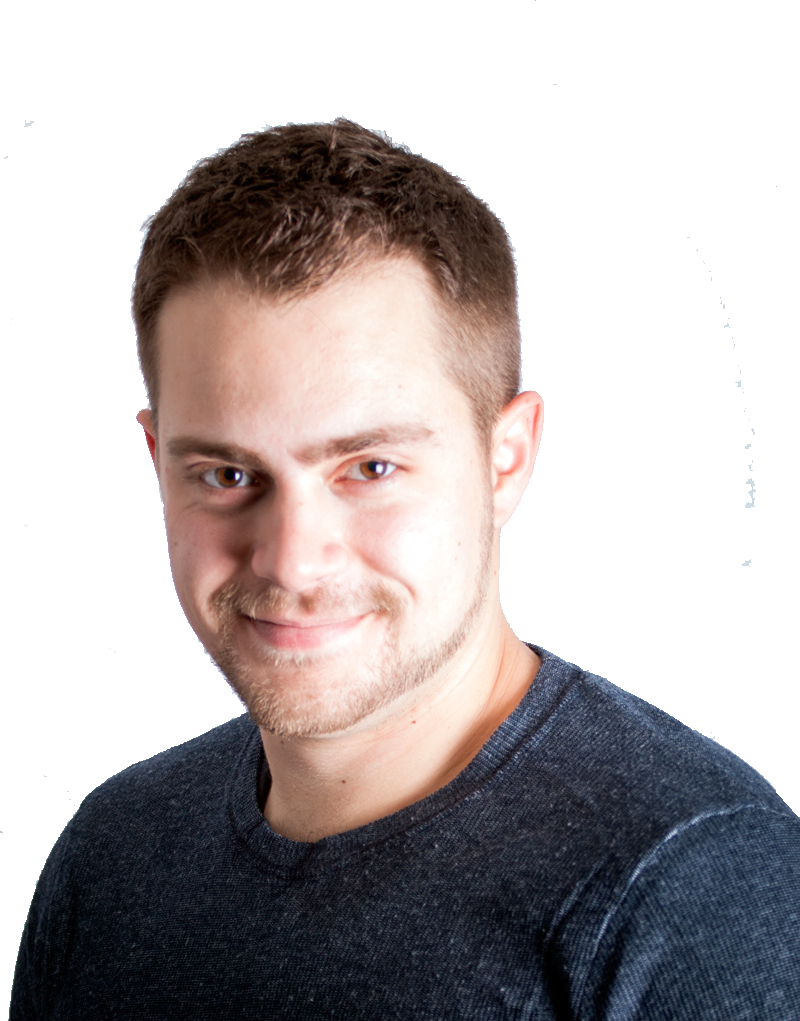
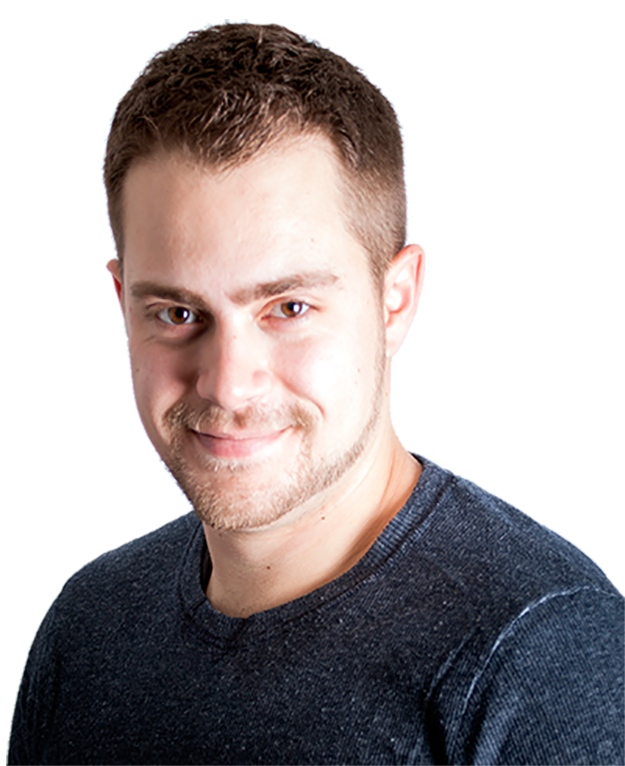
Update
-- Updated footer in index.html
-- added content to home.html

Changed region(s): [[0.0, 0.03, 1.0, 1.0], [0.3344, 0.9308, 0.3648, 0.9608], [0.2432, 0.8107, 0.2736, 0.8407]]

diff --git a/pages/home.html b/pages/home.html
@@ -1,8 +1,14 @@
 <div class="container">
 	<div class="row">
-		<div class="col-md-12">
-			<h1 class="jumbortron">Hi, My Name Is Chris...</h1>
-			<p>I am a Front End Web Developer living in Monroe, MI.  Since The age of 12, I have been creating something.  Short Films [<a href="">Some of which can be found here</a>], </p>
+		<!-- <div class="col-md-12">
+			<h1 class="helloHeader">Hi, My Name Is Chris</h1>			
+		</div> -->
+		<div class="col-lg-6 col-sm-12">
+			<h1 class="helloHeader">Hi, My Name Is Chris.</h1>
+			<p class="bio pull-left text-left">I am a Front End Web Developer based in Monroe, MI.  My passion for web development started when I was 14, building a fan pages for my favorite bands on Angelfire. This passion was revived while building my photography website, along with the website for a local restaurant. It's so exciting to come back to web development years later and see how much everything has evolved. <br><br>Since graduating Udacity’s Front End Web Developer Nanodegree program, I have focused primarily on AngularJS and refining my skills in vanilla JavaScript.</p>
+		</div>
+		<div class="col-lg-6 col-sm-12">
+			<img src="../assets/img/headshot.png" class="pull-right img-responsive img-rounded headshot" alt="">
 		</div>
 	</div> <!-- Row End -->
 	<hr>
@@ -10,36 +16,33 @@
 	<!-- Skills Section -->
 	<div class="row">
 		<div class="col-lg-12 col-sm-12 text-center page-header">
-			<h1 class="aboutHeader">Skills</h1>
+			<h1 class="aboutHeader pull-left">Skills</h1>
 		</div>
 		<div class="col-lg-4 col-sm-12 ">
-			<h2 class="text-center skillsHeading">Languages</h2>
 			<ul class="list-group text-center">
 				<li class="list-group-item">HTML</li>
 				<li class="list-group-item">CSS</li>
 				<li class="list-group-item">JavaScript</li>
 				<li class="list-group-item">PHP</li>
+				<li class="list-group-item">MySQL</li>	
 
 			</ul>
 		</div>
 		<div class="col-lg-4 col-sm-12 ">
-			<h2 class="text-center skillsHeading">Frameworks</h2>
 			<ul class="list-group text-center">
+				<li class="list-group-item">jQuery</li>
 				<li class="list-group-item">AngularJS</li>
 				<li class="list-group-item">KnockoutJS</li>
 				<li class="list-group-item">Bootstrap</li>
+				<li class="list-group-item">Adobe Creative Cloud</li>
 			</ul>
 		</div>
 		<div class="col-lg-4 col-sm-12 ">
-			<h2 class="text-center skillsHeading">Other</h2>
-			<ul class="list-group text-center">
-				<li class="list-group-item">MySQL</li>
-				<li class="list-group-item">jQuery</li>
+			<ul class="list-group text-center">							
 				<li class="list-group-item">Git</li>
 				<li class="list-group-item">Github</li>
 				<li class="list-group-item">Gulp!</li>
 				<li class="list-group-item">SASS</li>
-
 			</ul>
 		</div>
 	</div> <!-- Row End -->

diff --git a/styles.css b/styles.css
@@ -3,6 +3,12 @@ Colors*/
 Blue:  #62ACDF*/
 /*------*/
 
+/*Fonts
+font-family: 'Bowlby One SC', cursive;
+font-family: 'Ultra', serif;*/
+
+
+
 /*Navigation*/
 .navbar-custom{
 	background: none;
@@ -264,4 +270,21 @@ i.fa.fa-github{
 	font-size: 28px;
 }
 
+.helloHeader{
+	font-size: 40px;
+	color: #62ACDF;
+	/*font-family: 'Bowlby One SC', cursive;*/
+	font-family: 'Ultra', serif;*/
+
+}
+
+.bio{
+	color: #828282;
+	font-size: 27px;
+	padding-top: 25px;
+}
+
+.headshot{
+	margin-bottom: 50px;
+}
 /*------------------------About End------------------------------------------------------------

diff --git a/index.html b/index.html
@@ -12,7 +12,7 @@
 	<link rel="stylesheet" href="font-awesome-4.7.0/css/font-awesome.min.css">
 
 	<!-- Fonts -->
-	
+	<link href="https://fonts.googleapis.com/css?family=Bowlby+One+SC|Ultra" rel="stylesheet">
 	<link href="https://fonts.googleapis.com/css?family=Montserrat|Roboto" rel="stylesheet">	
 
 
